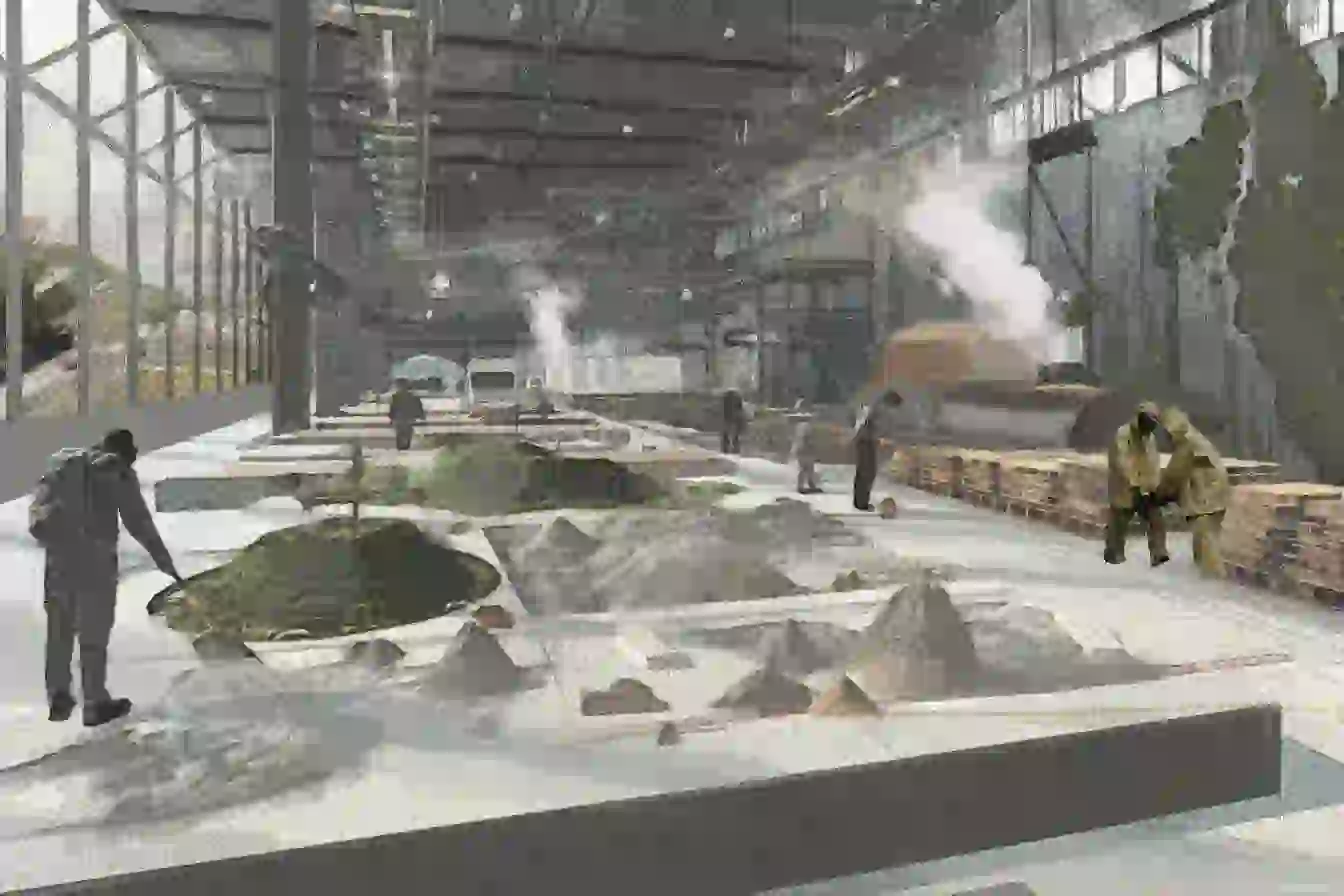
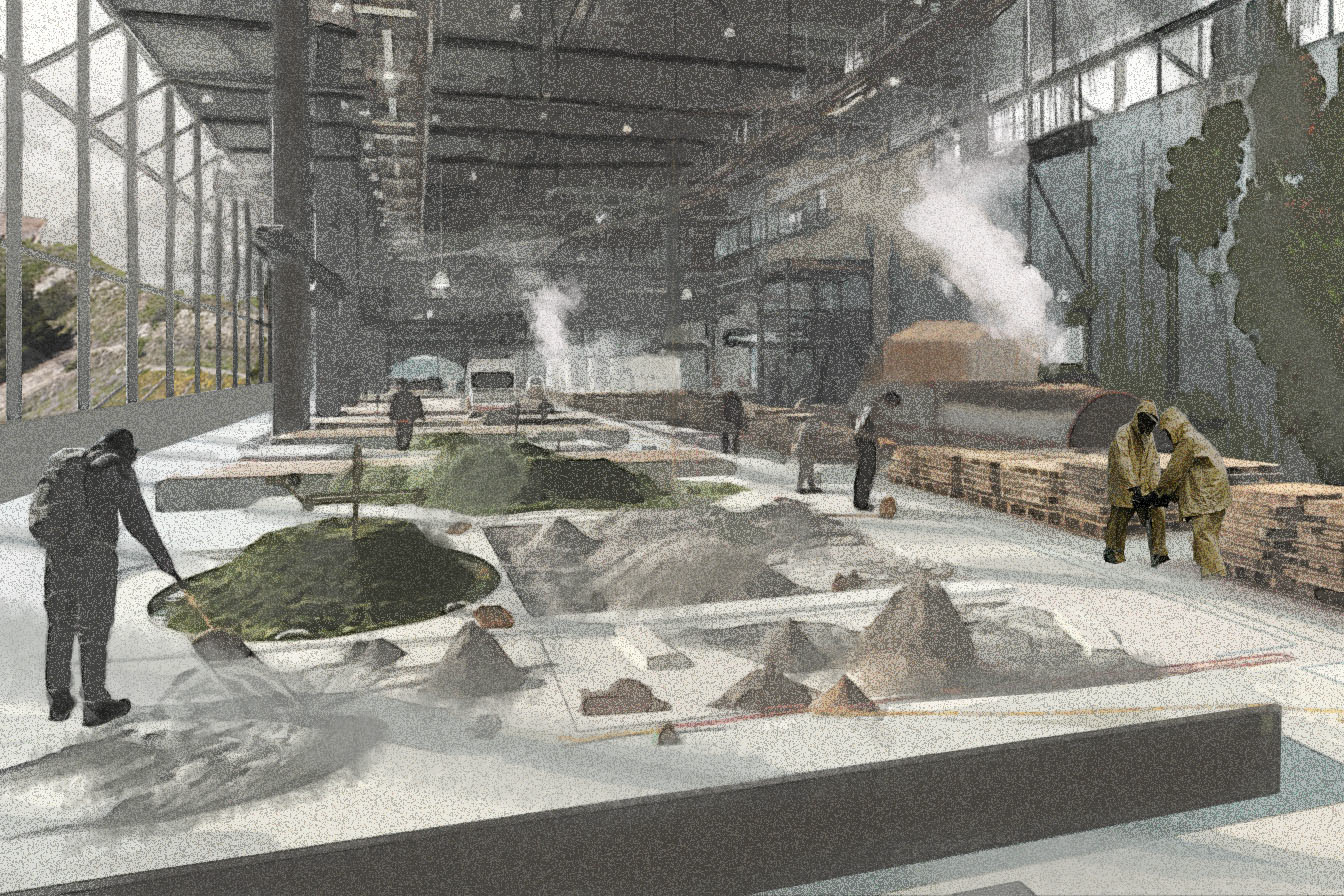
Rework Çayırhan project pages (1, 1-interactivepage) and explore.html linking
Update info panel content, justify body text, add Alternative Scenarios
grid section, fix grid track sizing overflow, swap modelgif3.gif for a
compressed mp4, cross-highlight hotspot/button pairs, and refresh several
project-1 image assets.

Changed region(s): [[0.0, 0.0, 1.0, 1.0], [0.5625, 0.9688, 0.7188, 1.0], [0.4062, 0.875, 0.4375, 0.9062]]

diff --git a/project-2026-1-interactivepage.html b/project-2026-1-interactivepage.html
@@ -9,7 +9,7 @@
   @import url('https://fonts.googleapis.com/css2?family=EB+Garamond:ital,wght@0,400;0,500;1,400&display=swap');
   *, *::before, *::after { box-sizing: border-box; margin: 0; padding: 0; }
   :root { --black:#0a0a0a; --white:#f5f2eb; --mid:#d4cebc; --accent:#c9b8a8; --border:rgba(245,242,235,0.1); --font:'EB Garamond',Georgia,serif; }
-  html, body { min-height: 100%; background: var(--black); color: var(--white); font-family: var(--font); }
+  html, body { min-height: 100%; background: var(--black); color: var(--white); font-family: var(--font); scroll-behavior: smooth; }
 
   nav { position:fixed; top:0; left:0; right:0; z-index:100; display:flex; align-items:center; justify-content:space-between; padding:0 2.5rem; height:52px; border-bottom:1px solid var(--border); background:var(--black); }
   .nav-back { font-size:0.72rem; letter-spacing:0.18em; text-transform:uppercase; color:var(--white); text-decoration:none; opacity:0.6; transition:opacity 0.2s; }
@@ -31,9 +31,9 @@
   .btn-row a { font-size:0.68rem; letter-spacing:0.16em; text-transform:uppercase; color:var(--white); border:1px solid var(--accent); padding:0.7em 1.6em; text-decoration:none; opacity:0.65; transition:opacity 0.2s ease,background 0.2s ease,color 0.2s ease; }
   .btn-row a:hover, .btn-row a.linked-hover { opacity:1; background:var(--accent); color:var(--black); }
 
-  .section-split { flex-direction:row; align-items:center; justify-content:center; gap:4rem; text-align:left; }
+  .section-split { flex-direction:row; align-items:center; justify-content:center; gap:4rem; text-align:left; flex-wrap:wrap; }
   .clip-text { flex:1; max-width:560px; }
-  .clip-text p { margin-bottom:1.2rem; font-size:0.95rem; line-height:1.75; opacity:0.8; }
+  .clip-text p { margin-bottom:1.2rem; font-size:0.95rem; line-height:1.75; opacity:0.8; text-align:justify; text-align-last:right; }
   .clip-text p:last-child { margin-bottom:0; }
   .clip-text .poem { font-style:italic; opacity:0.85; }
   .clip-text .reference { font-size:0.76rem; line-height:1.7; opacity:0.45; }
@@ -42,6 +42,13 @@
 
   .future-image { flex:1; max-width:600px; }
   .future-image img { width:100%; height:auto; max-height:70vh; object-fit:contain; display:block; }
+
+  #future-section { display:grid; grid-template-columns:minmax(0, 1fr) minmax(0, 1fr); grid-template-rows:repeat(3, minmax(0, 1fr)); gap:0; width:100%; max-width:1100px; height:calc(100vh - 52px - 3rem); margin:0 auto; border:1px solid red; overflow:hidden; }
+  #future-section .grid-cell { overflow:hidden; min-height:0; display:flex; align-items:center; justify-content:center; padding:1.5rem; }
+  #future-section .grid-cell:nth-child(odd) { border-right:1px solid red; }
+  #future-section .grid-cell:nth-child(-n+4) { border-bottom:1px solid red; }
+  #future-section .grid-cell img { max-width:100%; max-height:100%; object-fit:contain; display:block; }
+  #future-section .grid-cell .reference { font-size:0.76rem; line-height:1.7; opacity:0.45; }
 
   .section-flow { height:auto; min-height:calc(100vh - 52px); overflow:visible; padding:4rem 2rem; }
   .collage-row { display:flex; gap:3rem; max-width:1240px; width:100%; flex-wrap:wrap; justify-content:center; align-items:flex-start; }
@@ -61,7 +68,6 @@
 <nav>
   <a href="2026.html" class="nav-back">← 2026</a>
   <span class="nav-title">Interactive Page</span>
-  <span class="nav-tag">Field Report</span>
 </nav>
 
 <div class="wrap">
@@ -93,28 +99,32 @@
     <div class="clip-video">
       <iframe src="https://www.dailymotion.com/embed/video/k1yr9T9pCACLd3GHers" title="Soil and Ash Metabolism — Video" frameborder="0" allow="autoplay; fullscreen; picture-in-picture; web-share" allowfullscreen></iframe>
     </div>
+    <div class="btn-row" style="flex:0 0 100%;">
+      <a href="#future-section">Alternative Scenarios</a>
+    </div>
   </section>
 
-  <section class="section section-split">
-    <div class="future-image">
+  <section class="section section-split" id="future-section">
+    <div class="grid-cell">
       <img src="2026-images/2026-p1/2-interactive-page/2026-1-728-INTERACTIVEPAGE_2NDIMAGE.webp" alt="">
     </div>
-    <div class="clip-text">
+    <div class="grid-cell">
       <p>The final phase of the Çayırhan project looks beyond the crisis of leakage to explore a future of landscape on-site remediation. By deploying localized botanical and soil-cleansing strategies, the design actively counteracts decades of chemical and thermal accumulation within the terrain. The resulting landscape serves as a living laboratory where vegetation absorbs the slow violence of the past, paving the way for the ultimate recovery of regional skyways and water bodies.</p>
     </div>
-  </section>
-
-  <section class="section section-flow">
-    <div class="collage-row">
-      <div class="collage-item">
-        <img src="2026-images/2026-p1/2-interactive-page/2026-1-728-collage1.webp" alt="">
+    <div class="grid-cell">
+      <img src="2026-images/2026-p1/2-interactive-page/2026-1-728-collage1.webp" alt="">
+    </div>
+    <div class="grid-cell">
+      <img src="2026-images/2026-p1/2-interactive-page/2026-1-728-collage2.webp" alt="">
+    </div>
+    <div class="grid-cell">
+      <div>
         <p>This speculative collage work illustrates an alternative scenario that the power plant transforms it internally instead of leaking its waste into the outside world. Instead of turning the waste into an ash lake that poisons the landscape, a closed loop industrial metabolism ecosystem is created inside the factory, which transforms it into building materials such as concrete binder, brick, aerated concrete, and gypsum plaster. Therefore, the scene transforms the factory from a destructive machine, that consumes nature with residues, into a circular production center.</p>
         <p class="reference">Çavuşoğlu, İ. (2008). UÇUCU KÜLLERİN DOLGU MALZEMESİ OLARAK KULLANILMASI: ÖRNEK BİR UYGULAMA (ÇAYIRHAN). Bilimsel Madencilik Dergisi, 47(3), 3-13.</p>
       </div>
-      <div class="collage-item">
-        <img src="2026-images/2026-p1/2-interactive-page/2026-1-728-collage2.webp" alt="">
-        <p>This speculative collage work illustrates the multi layered landscape which supports life cycle as a healing space in an alternative scenario where a power plant transforms it internally instead of leaking its residue into the outside world. In this scenario, the area of the lake is a natural wetland ecosystem which provides healthy areas for fish farms and local production near Çayırhan Dam. Moreover, since the invisible wall of pollution created by the power plant in the air has disappeared, birds are regaining their historical migration routes and can safely locate themselves in this basin.</p>
-      </div>
+    </div>
+    <div class="grid-cell">
+      <p>This speculative collage work illustrates the multi layered landscape which supports life cycle as a healing space in an alternative scenario where a power plant transforms it internally instead of leaking its residue into the outside world. In this scenario, the area of the lake is a natural wetland ecosystem which provides healthy areas for fish farms and local production near Çayırhan Dam. Moreover, since the invisible wall of pollution created by the power plant in the air has disappeared, birds are regaining their historical migration routes and can safely locate themselves in this basin.</p>
     </div>
   </section>
 
@@ -135,7 +145,14 @@
     { id:'yapi',         svg:'2026-1-cayirhanmainphoto_03.01-onecikanlaryapi.svg',           webp:'2026-1-cayirhanmainphoto_03.01-onecikanlaryapi.webp'           },
   ];
 
-  FILES.forEach(cfg => {
+  function insertInOrder(g, order) {
+    g.dataset.order = order;
+    const next = Array.from(svgEl.children).find(child => Number(child.dataset.order) > order);
+    if (next) svgEl.insertBefore(g, next);
+    else svgEl.appendChild(g);
+  }
+
+  FILES.forEach((cfg, order) => {
     fetch(encodeURI(BASE + cfg.svg))
       .then(r => r.text())
       .then(svgText => {
@@ -217,7 +234,7 @@
           }
         });
 
-        svgEl.appendChild(g);
+        insertInOrder(g, order);
       });
   });
 
